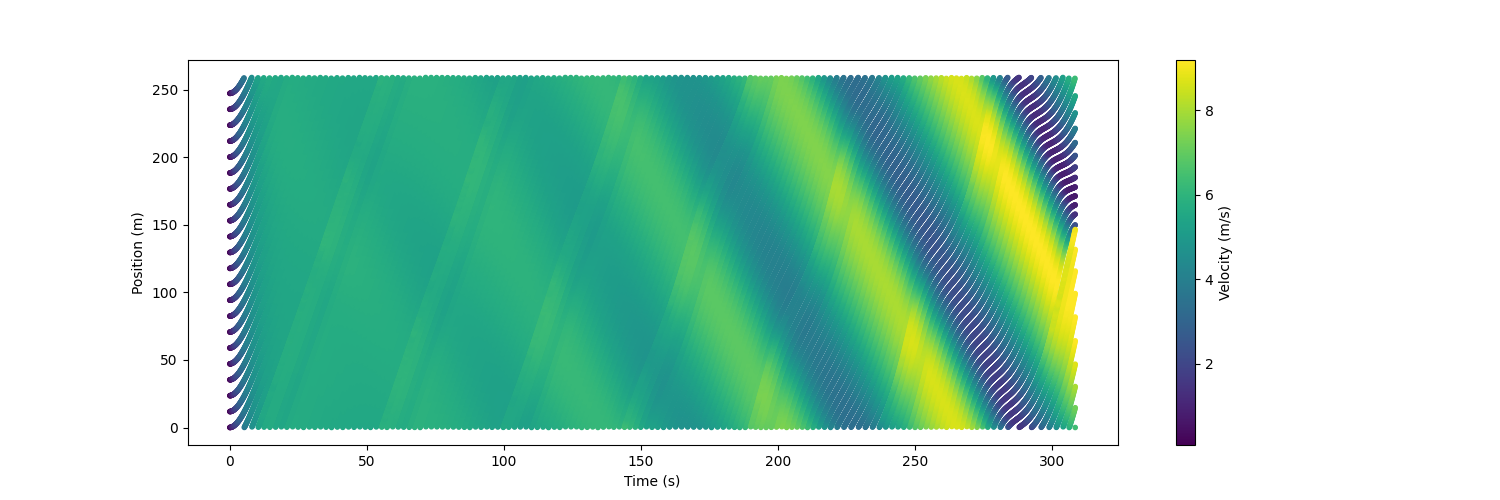
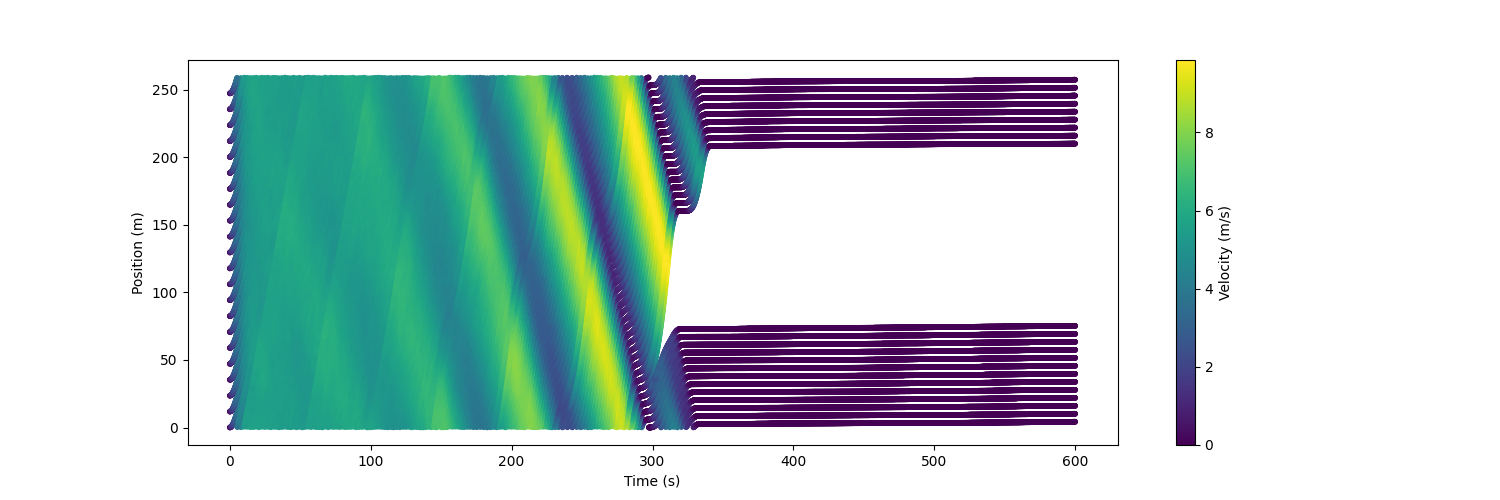
config change

diff --git a/scripts/centralized_critic.py b/scripts/centralized_critic.py
@@ -1,0 +1,202 @@
+import argparse
+import numpy as np
+from gym.spaces import Discrete
+import os
+
+import ray
+from ray import tune
+from ray.rllib.agents.maml.maml_torch_policy import KLCoeffMixin as TorchKLCoeffMixin
+from ray.rllib.agents.ppo.ppo import PPOTrainer
+from ray.rllib.agents.ppo.ppo_tf_policy import (
+    PPOTFPolicy,
+    KLCoeffMixin,
+    ppo_surrogate_loss as tf_loss,
+)
+from ray.rllib.agents.ppo.ppo_torch_policy import PPOTorchPolicy
+from ray.rllib.evaluation.postprocessing import compute_advantages, Postprocessing
+from ray.rllib.examples.env.two_step_game import TwoStepGame
+from ray.rllib.examples.models.centralized_critic_models import (
+    CentralizedCriticModel,
+    TorchCentralizedCriticModel,
+)
+from ray.rllib.models import ModelCatalog
+from ray.rllib.policy.sample_batch import SampleBatch
+from ray.rllib.policy.tf_policy import LearningRateSchedule, EntropyCoeffSchedule
+from ray.rllib.policy.torch_policy import (
+    LearningRateSchedule as TorchLR,
+    EntropyCoeffSchedule as TorchEntropyCoeffSchedule,
+)
+from ray.rllib.utils.annotations import override
+from ray.rllib.utils.framework import try_import_tf, try_import_torch
+from ray.rllib.utils.test_utils import check_learning_achieved
+from ray.rllib.utils.tf_utils import explained_variance, make_tf_callable
+from ray.rllib.utils.torch_utils import convert_to_torch_tensor
+
+tf1, tf, tfv = try_import_tf()
+torch, nn = try_import_torch()
+
+OPPONENT_OBS = "opponent_obs"
+OPPONENT_ACTION = "opponent_action"
+
+
+class CentralizedValueMixin:
+    """Add method to evaluate the central value function from the model."""
+
+    def __init__(self):
+        if self.config["framework"] != "torch":
+            self.compute_central_vf = make_tf_callable(self.get_session())(
+                self.model.central_value_function
+            )
+        else:
+            self.compute_central_vf = self.model.central_value_function
+
+
+# Grabs the opponent obs/act and includes it in the experience train_batch,
+# and computes GAE using the central vf predictions.
+def centralized_critic_postprocessing(
+        policy, sample_batch, other_agent_batches=None, episode=None
+):
+    pytorch = policy.config["framework"] == "torch"
+    if (pytorch and hasattr(policy, "compute_central_vf")) or (
+            not pytorch and policy.loss_initialized()
+    ):
+        assert other_agent_batches is not None
+        [(_, opponent_batch)] = list(other_agent_batches.values())
+
+        # also record the opponent obs and actions in the trajectory
+        sample_batch[OPPONENT_OBS] = opponent_batch[SampleBatch.CUR_OBS]
+        sample_batch[OPPONENT_ACTION] = opponent_batch[SampleBatch.ACTIONS]
+
+        # overwrite default VF prediction with the central VF
+        if args.framework == "torch":
+            sample_batch[SampleBatch.VF_PREDS] = (
+                policy.compute_central_vf(
+                    convert_to_torch_tensor(
+                        sample_batch[SampleBatch.CUR_OBS], policy.device
+                    ),
+                    convert_to_torch_tensor(sample_batch[OPPONENT_OBS], policy.device),
+                    convert_to_torch_tensor(
+                        sample_batch[OPPONENT_ACTION], policy.device
+                    ),
+                )
+                    .cpu()
+                    .detach()
+                    .numpy()
+            )
+        else:
+            sample_batch[SampleBatch.VF_PREDS] = policy.compute_central_vf(
+                sample_batch[SampleBatch.CUR_OBS],
+                sample_batch[OPPONENT_OBS],
+                sample_batch[OPPONENT_ACTION],
+            )
+    else:
+        # Policy hasn't been initialized yet, use zeros.
+        sample_batch[OPPONENT_OBS] = np.zeros_like(sample_batch[SampleBatch.CUR_OBS])
+        sample_batch[OPPONENT_ACTION] = np.zeros_like(sample_batch[SampleBatch.ACTIONS])
+        sample_batch[SampleBatch.VF_PREDS] = np.zeros_like(
+            sample_batch[SampleBatch.REWARDS], dtype=np.float32
+        )
+
+    completed = sample_batch["dones"][-1]
+    if completed:
+        last_r = 0.0
+    else:
+        last_r = sample_batch[SampleBatch.VF_PREDS][-1]
+
+    train_batch = compute_advantages(
+        sample_batch,
+        last_r,
+        policy.config["gamma"],
+        policy.config["lambda"],
+        use_gae=policy.config["use_gae"],
+    )
+    return train_batch
+
+
+# Copied from PPO but optimizing the central value function.
+def loss_with_central_critic(policy, model, dist_class, train_batch):
+    CentralizedValueMixin.__init__(policy)
+    func = tf_loss if not policy.config["framework"] == "torch" else PPOTorchPolicy.loss
+
+    vf_saved = model.value_function
+    model.value_function = lambda: policy.model.central_value_function(
+        train_batch[SampleBatch.CUR_OBS],
+        train_batch[OPPONENT_OBS],
+        train_batch[OPPONENT_ACTION],
+    )
+
+    policy._central_value_out = model.value_function()
+    loss = func(policy, model, dist_class, train_batch)
+
+    model.value_function = vf_saved
+
+    return loss
+
+
+def setup_tf_mixins(policy, obs_space, action_space, config):
+    # Copied from PPOTFPolicy (w/o ValueNetworkMixin).
+    KLCoeffMixin.__init__(policy, config)
+    EntropyCoeffSchedule.__init__(
+        policy, config["entropy_coeff"], config["entropy_coeff_schedule"]
+    )
+    LearningRateSchedule.__init__(policy, config["lr"], config["lr_schedule"])
+
+
+def setup_torch_mixins(policy, obs_space, action_space, config):
+    # Copied from PPOTorchPolicy  (w/o ValueNetworkMixin).
+    TorchKLCoeffMixin.__init__(policy, config)
+    TorchEntropyCoeffSchedule.__init__(
+        policy, config["entropy_coeff"], config["entropy_coeff_schedule"]
+    )
+    TorchLR.__init__(policy, config["lr"], config["lr_schedule"])
+
+
+def central_vf_stats(policy, train_batch, grads):
+    # Report the explained variance of the central value function.
+    return {
+        "vf_explained_var": explained_variance(
+            train_batch[Postprocessing.VALUE_TARGETS], policy._central_value_out
+        )
+    }
+
+
+CCPPOTFPolicy = PPOTFPolicy.with_updates(
+    name="CCPPOTFPolicy",
+    postprocess_fn=centralized_critic_postprocessing,
+    loss_fn=loss_with_central_critic,
+    before_loss_init=setup_tf_mixins,
+    grad_stats_fn=central_vf_stats,
+    mixins=[
+        LearningRateSchedule,
+        EntropyCoeffSchedule,
+        KLCoeffMixin,
+        CentralizedValueMixin,
+    ],
+)
+
+
+class CCPPOTorchPolicy(PPOTorchPolicy):
+    def __init__(self, observation_space, action_space, config):
+        super().__init__(observation_space, action_space, config)
+        self.compute_central_vf = self.model.central_value_function
+
+    @override(PPOTorchPolicy)
+    def loss(self, model, dist_class, train_batch):
+        return loss_with_central_critic(self, model, dist_class, train_batch)
+
+    @override(PPOTorchPolicy)
+    def postprocess_trajectory(
+            self, sample_batch, other_agent_batches=None, episode=None
+    ):
+        return centralized_critic_postprocessing(
+            self, sample_batch, other_agent_batches, episode
+        )
+
+
+class CCTrainer(PPOTrainer):
+    @override(PPOTrainer)
+    def get_default_policy_class(self, config):
+        if config["framework"] == "torch":
+            return CCPPOTorchPolicy
+        else:
+            return CCPPOTFPolicy

diff --git a/experiment.py b/experiment.py
@@ -3,6 +3,9 @@ import numpy as np
 import ray
 from ray import tune
 from ray.rllib.agents import dqn, ppo
+from ray.rllib.examples.models.centralized_critic_models import TorchCentralizedCriticModel, CentralizedCriticModel
+from ray.rllib.models import ModelCatalog
+
 from Ring_Road import RingRoad
 from Ring_Road.metrics import Metrics
 
@@ -106,3 +109,58 @@ class Experiment:
                 print(env.action_steps, reward)
             met.plot(self.config)
             return episode_reward
+
+
+    def train_centralized_critic(self):
+
+        ModelCatalog.register_custom_model(
+            "cc_model",
+            TorchCentralizedCriticModel
+            if self.config["framework"] == "torch"
+            else CentralizedCriticModel,
+        )
+
+        self.config["batch_mode"] = "complete_episodes"
+        self.config["custom_model"] = "cc_model"
+
+        config = {
+            "env": "ringroad-v1",
+            "batch_mode": "complete_episodes",
+            # Use GPUs iff `RLLIB_NUM_GPUS` env var set to > 0.
+            "multiagent": {
+                "policies": {
+                    "pol1": (
+                        None,
+                        Discrete(6),
+                        TwoStepGame.action_space,
+                        {
+                            "framework": args.framework,
+                        },
+                    ),
+                    "pol2": (
+                        None,
+                        Discrete(6),
+                        TwoStepGame.action_space,
+                        {
+                            "framework": args.framework,
+                        },
+                    ),
+                },
+                "policy_mapping_fn": (lambda aid, **kwargs: "pol1" if aid == 0 else "pol2"),
+            },
+            "model": {
+                "custom_model": "cc_model",
+            },
+        }
+
+        stop = {
+            "training_iteration": args.stop_iters,
+            "timesteps_total": args.stop_timesteps,
+            "episode_reward_mean": args.stop_reward,
+        }
+
+        results = tune.run(CCTrainer, config=config, stop=stop, verbose=1)
+
+
+
+

diff --git a/Ring_Road/vehicle/vehicle.py b/Ring_Road/vehicle/vehicle.py
@@ -46,7 +46,7 @@ class Car(pygame.sprite.Sprite):
 
         return s
 
-    def idm_control(self, noise=0):
+    def idm_control(self):
         delta_v = self.v - self.front_vehicle.v
 
         s = self.gap_front()
@@ -54,7 +54,7 @@ class Car(pygame.sprite.Sprite):
             s = 0.0001
 
         s_star = s0 + max(0, (self.v * T) + ((self.v * delta_v) / (2 * np.power(a * b, 0.5))))
-        self.acc = a * (1 - np.power(self.v / v0, IDM_DELTA) - np.power(s_star / s, 2)) + np.random.normal(0, noise)
+        self.acc = a * (1 - np.power(self.v / v0, IDM_DELTA) - np.power(s_star / s, 2)) + np.random.normal(0, 0.2)
         old_velocity = self.v
         self.v = max(0, min((old_velocity) + (self.acc * DELTA_T), v0))
         self.acc = (self.v - old_velocity) / DELTA_T  # adjustment to acc due to clamping of velocity
@@ -155,10 +155,10 @@ class Agent(Car):
 
         return self.acc
 
-    def _run_control(self, avg_vel=None, noise=0):
+    def _run_control(self, avg_vel=None):
         accel_action = None
         if self.agent_type == "idm":
-            accel_action = self.idm_control(noise=noise)
+            accel_action = self.idm_control()
         elif self.agent_type == "discrete":
             accel_action = self._discrete()
         elif self.agent_type == "continuous":
@@ -186,7 +186,7 @@ class Agent(Car):
             else:
                 self.agent_type = "idm"
 
-        accel_action = self._run_control(avg_vel, noise)
+        accel_action = self._run_control(avg_vel)
         accel_action = state_extractor.failsafe_action(accel_action)
         self._update_vel(accel_action)
         self.update_positions()

diff --git a/main.py b/main.py
@@ -17,7 +17,7 @@ def main():
         scripts.train_dqn.evaluate("/home/vamsi/Documents/GitHub/RingRoad-RL/Models/DQN/DQNTrainer_2022-03-03_19-28-07/DQNTrainer_ringroad-v1_f4621_00000_0_2022-03-03_19-28-08/checkpoint_000488/checkpoint-488")
 
     elif args.type == "eval_ppo":
-        scripts.train_ppo.evaluate("/home/vamsi/Documents/GitHub/RingRoad-RL/Models/PPO/SingleAgent/LSTM/PPOTrainer_2022-04-28_16-08-12/PPOTrainer_ringroad-v1_4dcae_00000_0_2022-04-28_16-08-12/checkpoint_000250/checkpoint-250")
+        scripts.train_ppo.evaluate("/home/vamsi/Documents/GitHub/RingRoad-RL/Models/PPO/SingleAgent/LSTM/PPOTrainer_2022-04-29_15-17-16/PPOTrainer_ringroad-v1_5aaa1_00000_0_2022-04-29_15-17-16/checkpoint_000250/checkpoint-250")
 
     elif args.type == "eval_idm":
         scripts.evaluate_idm.evaluate()

diff --git a/Ring_Road/envs/ringroad.py b/Ring_Road/envs/ringroad.py
@@ -122,9 +122,9 @@ class RingRoad(gym.Env):
 
         # reward average velocity
         eta_2 = 4.
-        reward = self.state_extractor.get_average_vel() / 5
+        reward = self.state_extractor.get_average_vel()
         # punish accelerations (should lead to reduced stop-and-go waves)
-        eta = 2  # 0.25
+        eta = 0.5  # 0.25
         mean_actions = eta * np.mean(np.abs(action))
         accel_threshold = 0
 
